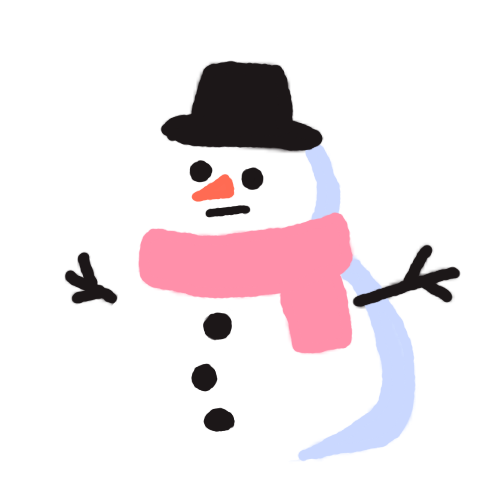
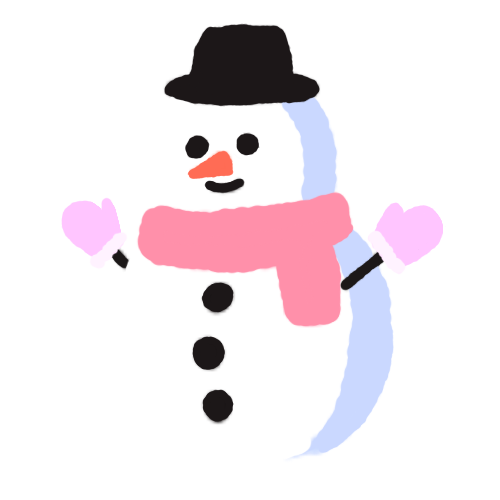
이미지 및 주소 수정

Changed region(s): [[0.12, 0.03, 0.93, 0.93]]

diff --git a/src/App.js b/src/App.js
@@ -32,21 +32,21 @@ function App() {
           <Route path="/diary" element={<Diary />} />
           <Route path="/login" element={<Login />} />
           <Route path="/signup" element={<Signup />} />
-          <Route path="/mypage" element={<Mypage />} />
+          <Route path="/snowflakes" element={<Mypage />} />
 
           {/* Months */}
-          <Route path="/january" element={<January />} />
-          <Route path="/february" element={<February />} />
-          <Route path="/march" element={<March />} />
-          <Route path="/april" element={<April />} />
-          <Route path="/may" element={<May />} />
-          <Route path="/june" element={<June />} />
-          <Route path="/july" element={<July />} />
-          <Route path="/august" element={<August />} />
-          <Route path="/september" element={<September />} />
-          <Route path="/october" element={<October />} />
-          <Route path="/november" element={<November />} />
-          <Route path="/december" element={<December />} />
+          <Route path="/diary/january" element={<January />} />
+          <Route path="/diary/february" element={<February />} />
+          <Route path="/diary/march" element={<March />} />
+          <Route path="/diary/april" element={<April />} />
+          <Route path="/diary/may" element={<May />} />
+          <Route path="/diary/june" element={<June />} />
+          <Route path="/diary/july" element={<July />} />
+          <Route path="/diary/august" element={<August />} />
+          <Route path="/diary/september" element={<September />} />
+          <Route path="/diary/october" element={<October />} />
+          <Route path="/diary/november" element={<November />} />
+          <Route path="/diary/december" element={<December />} />
         </Routes>
       </div>
     </BrowserRouter>

diff --git a/src/pages/Diary.js b/src/pages/Diary.js
@@ -4,18 +4,18 @@ const Diary = () => {
   return (
     <div className="Diary">
       <h1>Diary</h1>
-      <Link to="/january">January</Link>
-      <Link to="/february">February</Link>
-      <Link to="/march">March</Link>
-      <Link to="/april">April</Link>
-      <Link to="/may">May</Link>
-      <Link to="/june">June</Link>
-      <Link to="/july">July</Link>
-      <Link to="/august">August</Link>
-      <Link to="/september">September</Link>
-      <Link to="/october">October</Link>
-      <Link to="/november">November</Link>
-      <Link to="/december">December</Link>
+      <Link to="/diary/january">January</Link>
+      <Link to="/diary/february">February</Link>
+      <Link to="/diary/march">March</Link>
+      <Link to="/diary/april">April</Link>
+      <Link to="/diary/may">May</Link>
+      <Link to="/diary/june">June</Link>
+      <Link to="/diary/july">July</Link>
+      <Link to="/diary/august">August</Link>
+      <Link to="/diary/september">September</Link>
+      <Link to="/diary/october">October</Link>
+      <Link to="/diary/november">November</Link>
+      <Link to="/diary/december">December</Link>
       <Link to="/outside">Go outside </Link>
     </div>
   );

diff --git a/src/pages/Start.js b/src/pages/Start.js
@@ -4,7 +4,7 @@ const Start = () => {
   return (
     <div className="Start">
       <h1>Melting</h1>
-      <img src={process.env.PUBLIC_URL + `/assets/snowman1.png`} />{" "}
+      <img src={process.env.PUBLIC_URL + `/assets/snowman4.png`} />{" "}
       <ul>
         <li>
           <Link to="/outside">내 눈사람 보러가기</Link>

diff --git a/src/apis/mypage.js b/src/apis/mypage.js
@@ -3,6 +3,6 @@ import { getAuthAxios } from "./authAxios";
 export const getMypage = async () => {
   const access = localStorage.getItem("access");
   const authAxios = getAuthAxios(access);
-  const result = await authAxios.get("/mypage");
+  const result = await authAxios.get("/snowflakes");
   return result.data;
 };

diff --git a/src/pages/Login.js b/src/pages/Login.js
@@ -23,7 +23,7 @@ const Login = () => {
     //accessToken, refreshToken은 백엔드에서 정하기 나름
     localStorage.setItem("access", accessToken);
     localStorage.setItem("refresh", refreshToken);
-    router("/mypage");
+    router("/snowflakes");
   };
   return (
     <Wrapper>

diff --git a/src/pages/Mypage.js b/src/pages/Mypage.js
@@ -23,7 +23,7 @@ const Mypage = () => {
   return (
     <div>
       {/*<div>{data?.name}</div>*/}
-      <h1>My page</h1>
+      My page
     </div>
     // 백엔드에서 지정한 mypage api의 json 항목 이름을 따른다
   );
